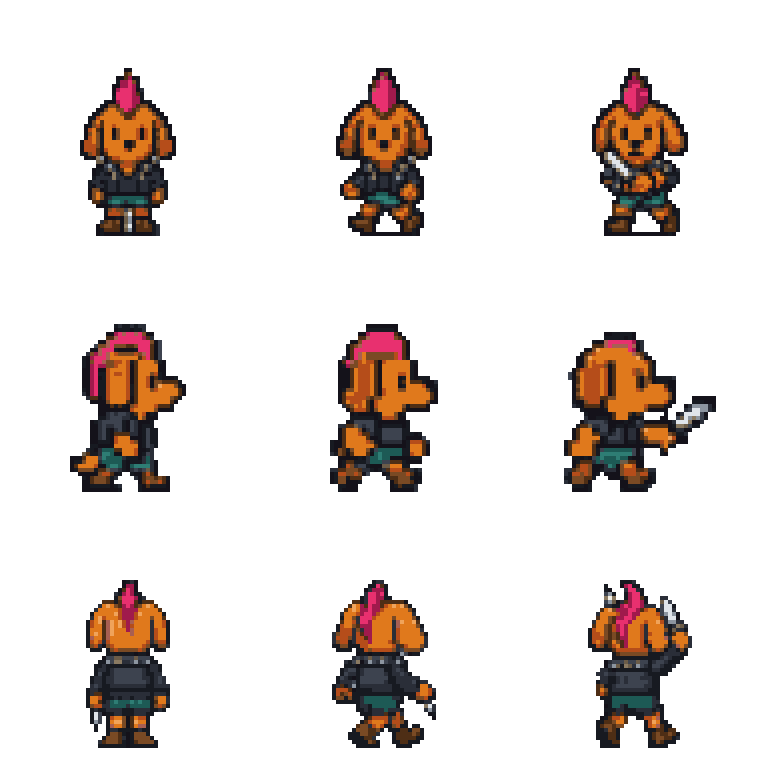
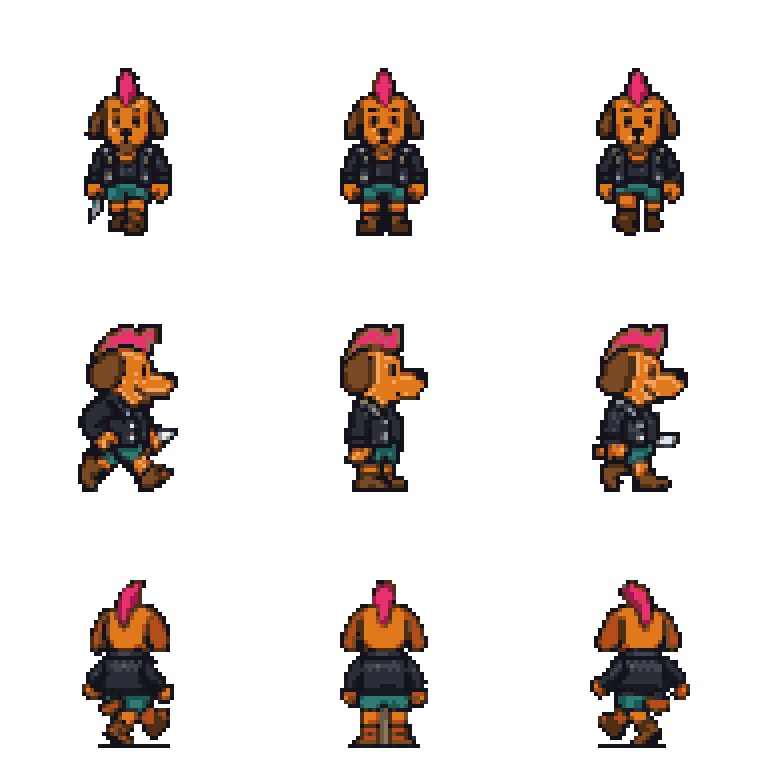
Dog Punk: give the hero a real standing frame, fixing "stuck walking"
Standing still while facing left or right showed a mid-stride pose. The cause
was in the art, not the code: the sheet's columns were [idle, walk, attack]
and the "idle" column of the side row was itself a walking drawing, so the
character had no standing pose to fall back to. Front and back only looked
right because those rows happened to have been drawn legs-together.

The sheet is now the standard [step, NEUTRAL, step] (attacks moved to their
own sheet earlier, which is what freed the third column), played [1,0,1,2] —
middle, step, middle, step — and pinned to the neutral column the instant
movement stops.

All three rows were regenerated one row per image, and each one had to earn
its place through verify_sheet.py:

- the first front row drew the stride as a muddle of legs with debris between
  them; its replacement rotated her into a three-quarter pose, so a character
  walking toward the viewer looked like she was walking sideways;
- the first back row came back with two near-identical standing frames
  (caught: ratio 0.67), the next with a black ground bar drawn under the
  boots, the next with a knee-lift too subtle to read (0.67 again).

Each of those is now a rule in the standard rather than a thing to rediscover:
a stride is drawn per view (fore/aft split in the side row, lifted knee in
front and back, because a leg moving toward the camera is invisible), the body
stays square to camera, and no ground line is drawn under the feet.
[…]

diff --git a/games/dog-punk/app.js b/games/dog-punk/app.js
@@ -178,15 +178,31 @@ function sliceSheet(src, cols, rows) {
   return frames;
 }
 const HERO = sliceSheet("hero_sheet.png", HERO_SHEET_COLS, HERO_SHEET_ROWS);
-const heroDown = HERO[0];
-const heroDownWalk2 = HERO[1];
-const heroAtkDown = HERO[2];
-const heroSide = HERO[3];
-const heroSideWalk2 = HERO[4];
-const heroAtkSide = HERO[5];
-const heroUp = HERO[6];
-const heroUpWalk2 = HERO[7];
-const heroAtkUp = HERO[8];
+
+// RPG-Maker charset convention — see .github/art/CHARACTER_SHEETS.md. The
+// three columns are [step, NEUTRAL, step]: column 1 is a real standing-still
+// pose, not a stride.
+//
+// The old sheet's columns were [idle, walk, attack], and its "idle" column was
+// itself a mid-stride drawing. Standing still therefore showed a walking pose
+// — reported live as being stuck walking when facing left or right, and only
+// visible left/right because the front and back rows happened to have been
+// drawn legs-together. Attacks now come off their own sheet (HERO_ATK), which
+// is what freed the third column to be a second step.
+const COL_STEP_A = 0, COL_NEUTRAL = 1, COL_STEP_B = 2;
+// middle -> step -> middle -> step. Cycling 0,1,2 straight through never
+// returns to neutral between steps and reads as a shuffle.
+const WALK_SEQUENCE = [COL_NEUTRAL, COL_STEP_A, COL_NEUTRAL, COL_STEP_B];
+// One beat per quarter turn of the phase, so a full four-pose cycle takes the
+// same 2*PI the old two-pose alternation did: same walking speed, twice the
+// poses.
+const WALK_BEAT = Math.PI / 2;
+const HERO_ROW = { down: 0, side: 1, up: 2 };
+function heroFrame(row, col) { return HERO[row * HERO_SHEET_COLS + col]; }
+// Kept for the attack fallback path below, which still names them.
+const heroAtkDown = heroFrame(HERO_ROW.down, COL_NEUTRAL);
+const heroAtkSide = heroFrame(HERO_ROW.side, COL_NEUTRAL);
+const heroAtkUp = heroFrame(HERO_ROW.up, COL_NEUTRAL);
 
 // ATTACK ART: a second sheet, same 3x3 shape and same 256px cell as the hero
 // sheet, but its three columns are three CONSECUTIVE MOMENTS of one weapon
@@ -235,13 +251,17 @@ const ratAtkUp = RAT[8];
 // moonwalks again, this is the first thing to check, along with whether a
 // newly generated sheet's side row faces the same way this one does.)
 // The rats' PNGs still face LEFT, hence the opposite test in ratSpriteFor.
-function heroSpriteFor(facing, step) {
-  if (facing === "up") return { s: step ? heroUpWalk2 : heroUp, mirror: false };
-  if (facing === "left") return { s: step ? heroSideWalk2 : heroSide, mirror: true };
-  if (facing === "right") return { s: step ? heroSideWalk2 : heroSide, mirror: false };
-  return { s: step ? heroDownWalk2 : heroDown, mirror: false };
+function heroSpriteFor(facing, col) {
+  if (facing === "up") return { s: heroFrame(HERO_ROW.up, col), mirror: false };
+  if (facing === "left") return { s: heroFrame(HERO_ROW.side, col), mirror: true };
+  if (facing === "right") return { s: heroFrame(HERO_ROW.side, col), mirror: false };
+  return { s: heroFrame(HERO_ROW.down, col), mirror: false };
 }
-function ratSpriteFor(facing, step) {
+// The rat sheet is still the older [idle, walk, attack] shape, so the hero's
+// walk column collapses to "standing or stepping" here. When the rats are next
+// regenerated they get the same [step, neutral, step] layout and this goes.
+function ratSpriteFor(facing, col) {
+  const step = col !== COL_NEUTRAL;
   if (facing === "up") return { s: step ? ratUpWalk2 : ratUp, mirror: false };
   if (facing === "left") return { s: step ? ratSideWalk2 : ratSide, mirror: true };
   if (facing === "right") return { s: step ? ratSideWalk2 : ratSide, mirror: false };
@@ -797,8 +817,12 @@ function tintedFrame(img, color) {
 function drawAnimatedSprite(spriteFor, facing, x, y, size, anim, fallback) {
   // ~2 steps per phase cycle; phase advances with distance moved (see
   // update()), so cadence scales with actual movement speed.
-  const step = anim.moving && Math.sin(anim.phase) > 0;
-  const { s, mirror } = spriteFor(facing, step);
+  // Standing still is ALWAYS the neutral column, so a character never freezes
+  // mid-stride the moment it stops.
+  const walkCol = anim.moving
+    ? WALK_SEQUENCE[Math.floor(anim.phase / WALK_BEAT) % WALK_SEQUENCE.length]
+    : COL_NEUTRAL;
+  const { s, mirror } = spriteFor(facing, walkCol);
   const stepSquash = anim.moving ? Math.abs(Math.sin(anim.phase * 2)) * 0.05 : 0;
   const bobY = anim.moving ? -Math.abs(Math.sin(anim.phase)) * 3 : 0;
   const scaleX = (anim.scaleX ?? 1) + stepSquash;
@@ -822,7 +846,9 @@ function drawAnimatedSprite(spriteFor, facing, x, y, size, anim, fallback) {
     }
     ctx.restore();
   } else {
-    fallback(x + dx, y + dy, facing, scaleX, scaleY, step);
+    // The drawn-in-code fallback only has two poses, so the four-beat walk
+    // column collapses back to "stepping or not" for it.
+    fallback(x + dx, y + dy, facing, scaleX, scaleY, walkCol !== COL_NEUTRAL);
   }
 }
 

diff --git a/games/dog-punk/sw.js b/games/dog-punk/sw.js
@@ -1,6 +1,6 @@
 importScripts("../../shared/sw-core.js");
 
-GCRegisterServiceWorker("dog-punk-v15", [
+GCRegisterServiceWorker("dog-punk-v16", [
   "./",
   "./index.html",
   "./style.css",
